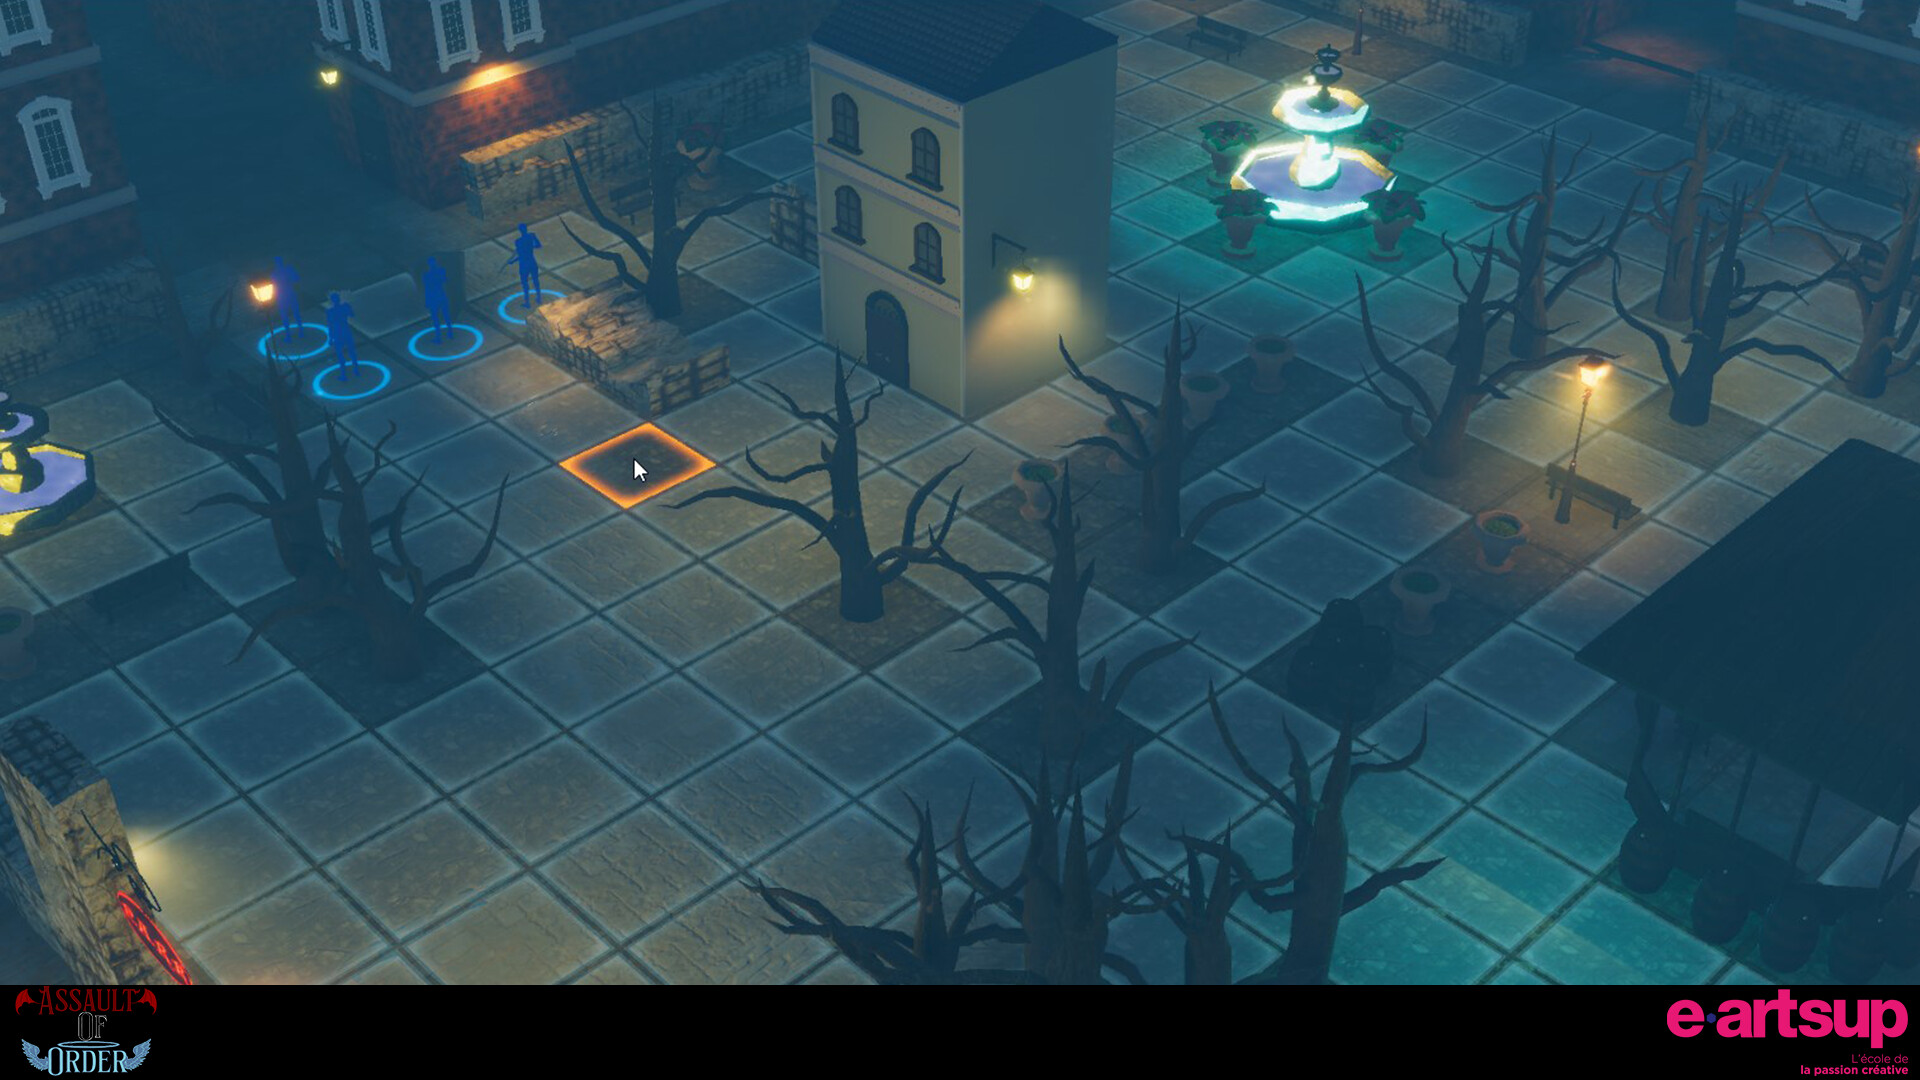
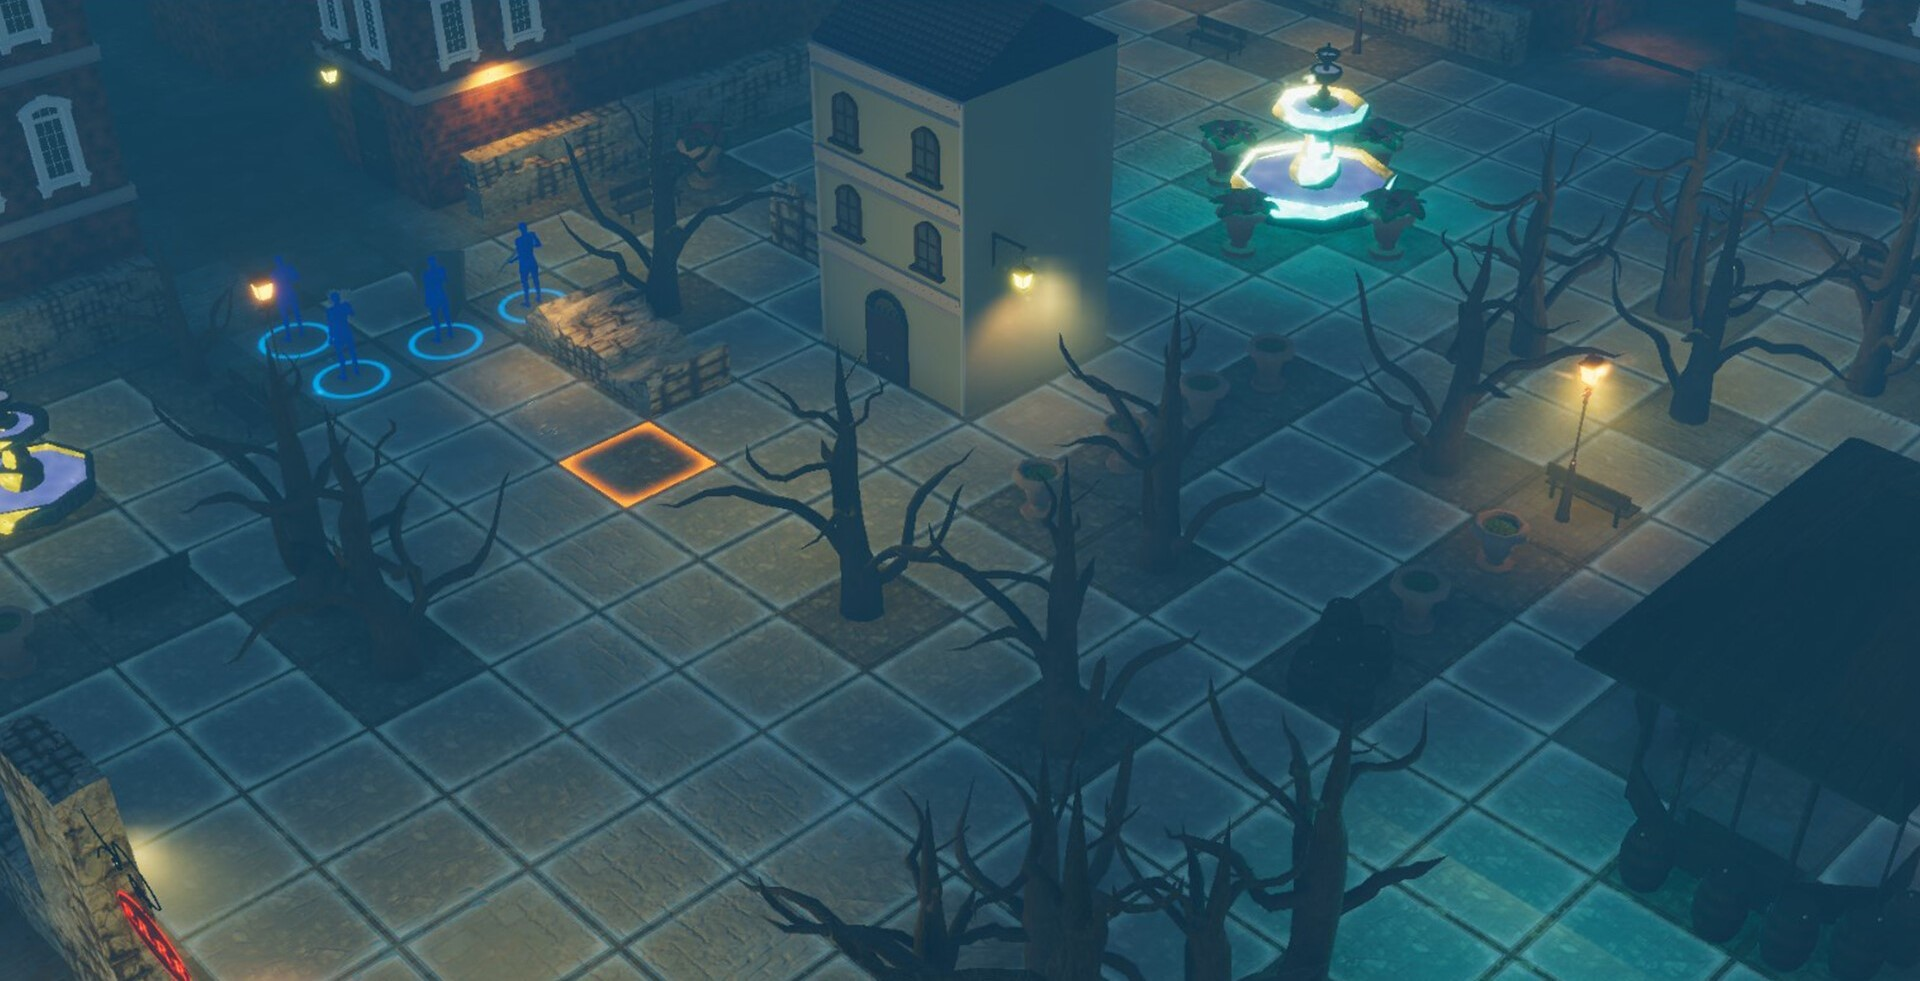
Update Assault of order

diff --git a/content/projects/assault-of-order.md b/content/projects/assault-of-order.md
@@ -1,5 +1,5 @@
 +++
-date = "2022-05-15T10:00:00+02:00"
+date = "2022-07-01T08:00:00.000Z"
 draft = false
 title = "Assault of Order"
 subtitle = "Projet de fin d'année 1ère année - e-artsup"
@@ -14,14 +14,28 @@ logo = "/images/projects/assault-of-order/assault-of-order-logo.png"
 image = "/images/projects/assault-of-order/clement-garcia-aoo-leveldesign-3.jpg"
 frameworks_engines = [ "Unity" ]
 programming_languages = [ "C#" ]
-specialties = [ "Game Design", "Développement Outils" ]
+specialties = [
+  "Développement Outils",
+  "Lighting",
+  "Environnement Building",
+  "Développement Gameplay",
+  "Gestion de versions avec Git",
+  "Algorithmique"
+]
 soft_skills = [ "Résolution Problèmes", "Communication" ]
-tools = [ "Fork", "Visual Studio", "HacknPlan", "SonyVegas" ]
+tools = [
+  "Fork",
+  "Visual Studio",
+  "HacknPlan",
+  "SonyVegas",
+  "GitHub",
+  "Discord"
+]
 
 [[actions]]
 type = "download"
 label = "Jouer au jeu"
-url = "https://matthieu-osten.itch.io/assault-of-order"
+url = "https://evil0games.itch.io/assault-of-order"
 primary = true
 
 [[actions]]
@@ -72,10 +86,13 @@ fieldGroup = "contributors_group"
 
 [development_time]
 total = "2 Mois"
+start_date = "2022-05-30T22:00:00.000Z"
+end_date = "2022-06-30T22:00:00.000Z"
 
 [[galleries]]
 title = "Photo"
 size = "size-medium"
+order = "90"
 fieldGroup = "galleries_group"
 
   [[galleries.images]]
@@ -84,6 +101,7 @@ fieldGroup = "galleries_group"
 [[galleries]]
 title = "Gameplay"
 size = "size-medium"
+order = "90"
 fieldGroup = "galleries_group"
 
   [[galleries.images]]
@@ -141,9 +159,52 @@ size = "size-medium"
 video_id = "G1OzgE-y5Jk"
 video_title = "Trailer"
 duration = "1:35"
+order = "1"
 fieldGroup = "youtube_singles_group"
+
+[ranking]
+event_type = "Classement"
+suffix = "è"
+
+[widget_order]
+contributors = 10
+development_time = 20
+gallery = 30
+technical_specs = 40
+specialties = 50
+soft_skills = 55
+tools = 60
+awards = 70
+testimonials = 80
+youtube_videos = 90
+clients = 100
+grade = 110
+downloads = 120
+ranking = 130
 +++
 
 # Assault of Order
 
 ## Description du projet
+
+Projet de fin de première année réalisé à E-artsup  
+Jeu de stratégie au tour par tour inspiré des XCOM, où deux équipes s'affrontent sur un champ de bataille en grille  
+Chaque unité dispose de ses propres capacités et compétences, ce qui pousse le joueur à réfléchir, planifier et anticiper chaque action pour remporter la victoire
+
+Sur ce projet, j'étais principalement orienté sur la partie technique et la conception des systèmes de jeu  
+Mon objectif était de donner vie au cœur du gameplay : la grille, le déplacement des unités et le déroulement des tours de jeu  
+J'ai également contribué à la mise en place de l'environnement visuel du jeu et de son éclairage
+
+## Développement & Gameplay
+
+- Conception complète du système de grille de jeu (cases, coordonnées, interactions)
+- Développement d'outils internes permettant de peindre les cases directement dans l'éditeur Unity
+- Implémentation d'un algorithme de pathfinding de type A* pour le déplacement intelligent des unités
+- Visualisation du chemin parcouru et du coût de déplacement sur la grille
+- Programmation du système de tour par tour (gestion du joueur A et B, ordre des unités, transitions)
+- Gestion des tours et de l'état du jeu : phase de sélection, déplacement, attaque, fin de manche
+
+## Environnement & Lighting
+
+- Réalisation de l'environnement building à partir du level design fourni par l'équipe
+- Travail sur le lighting général du jeu (ambiance, lisibilité, contraste)

diff --git a/content/people/matthieu-osten.md b/content/people/matthieu-osten.md
@@ -1,14 +1,14 @@
 ---
 date: "2025-08-14T22:45:06.615Z"
 draft: false
-title: "Matthieu Osten"
+title: "Matthieu OSTEN"
 id: "matthieu-osten"
 avatar: ""
 position: ""
 company: ""
 bio: "Profil de Matthieu Osten"
 email: ""
-linkedin: ""
+linkedin: "https://www.linkedin.com/in/matthieu-osten/"
 github: ""
 website: ""
 fmContentType: "person-content-type"

diff --git a/content/people/soundouss-khattabi.md b/content/people/soundouss-khattabi.md
@@ -1,7 +1,7 @@
 ---
 date: "2025-08-14T22:45:06.615Z"
 draft: false
-title: "Soundouss Khattabi"
+title: "Soundouss KHATTABI"
 id: "soundouss-khattabi"
 avatar: ""
 position: ""
